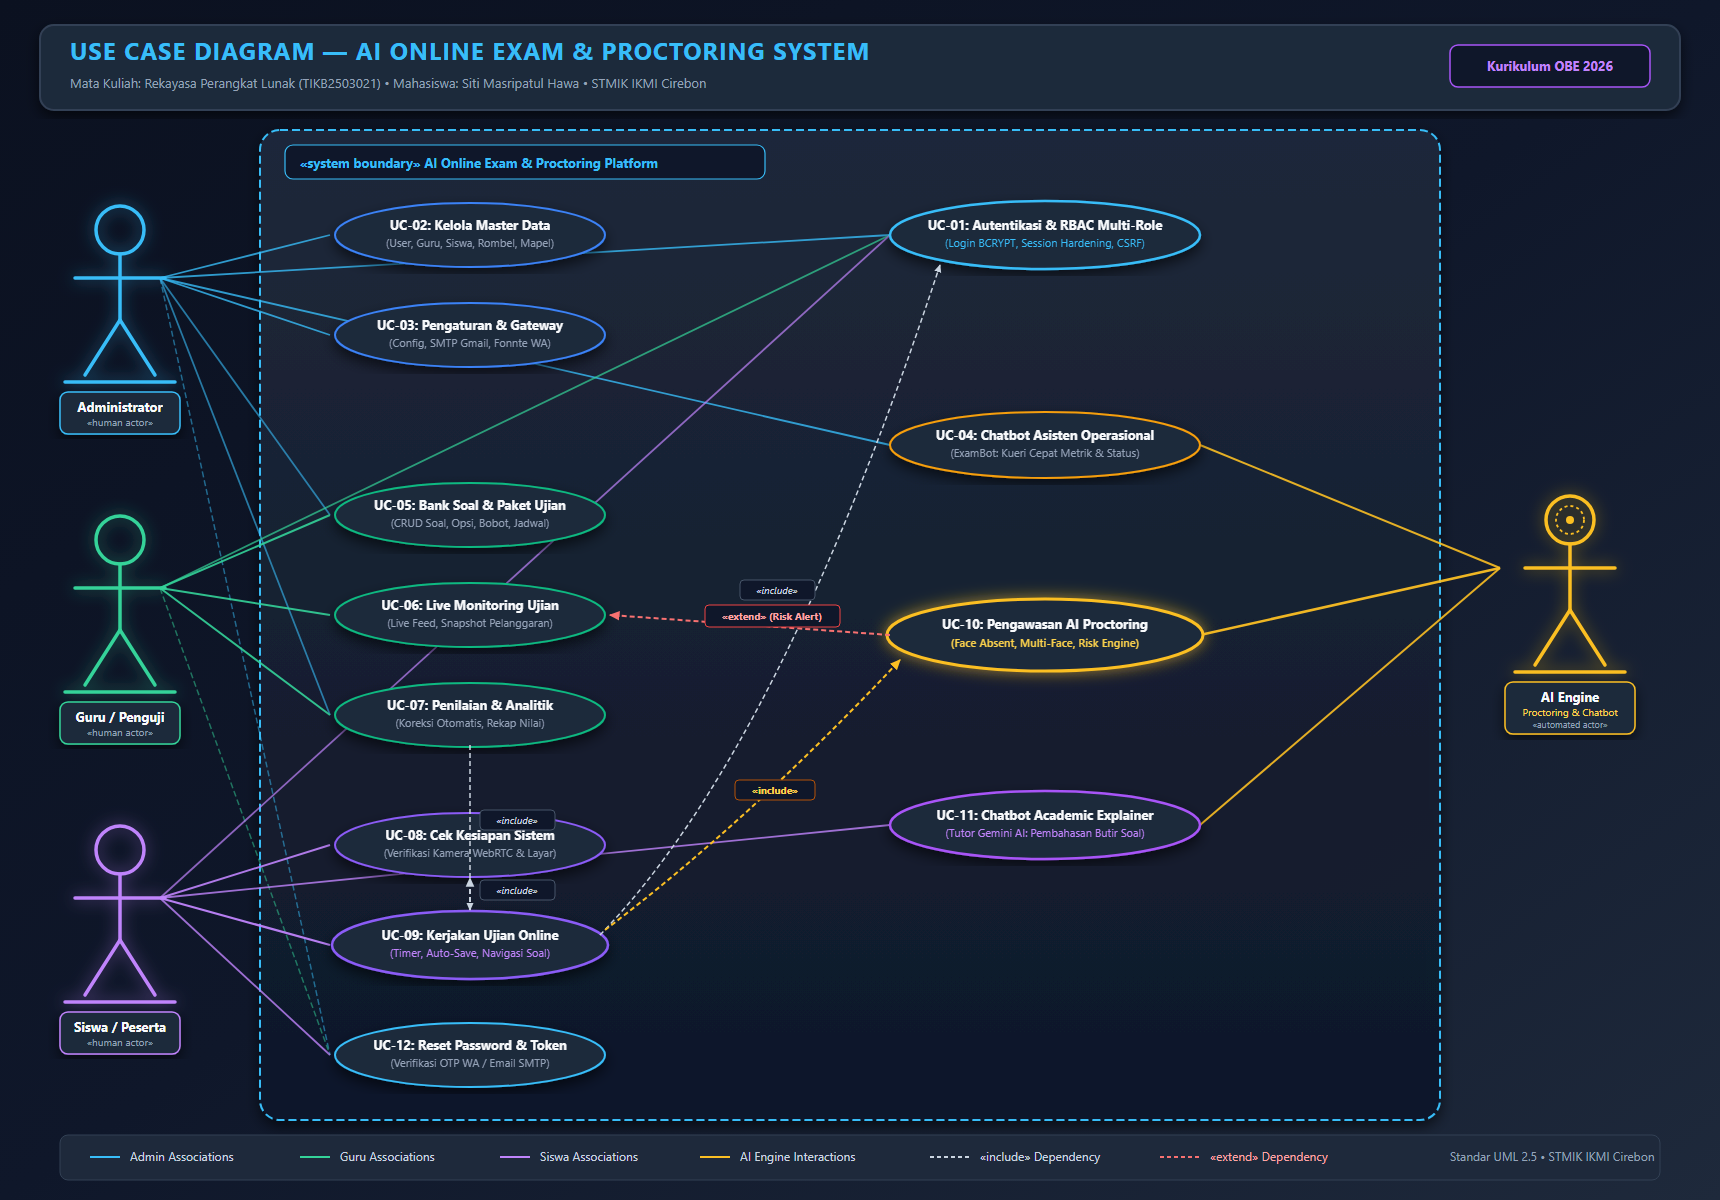
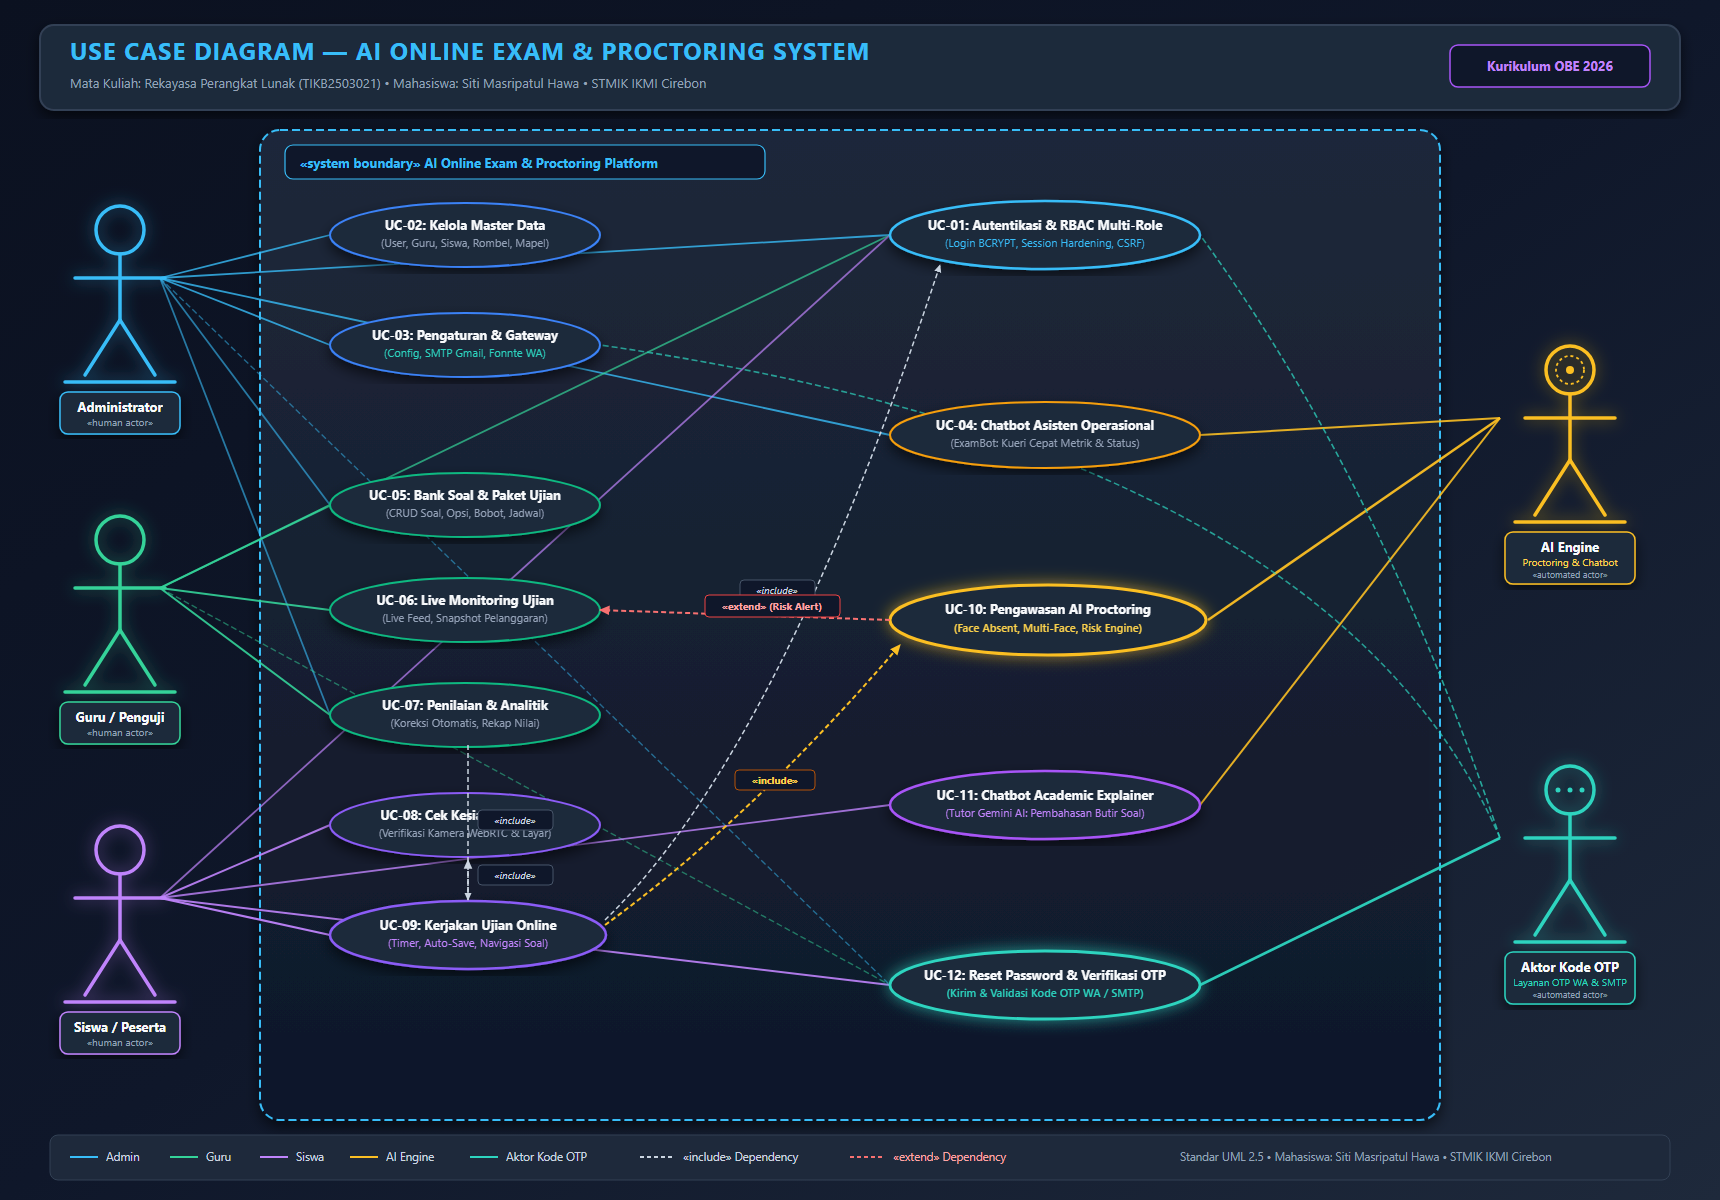
fix(uml): add Kode OTP actor on right side of use case diagram and update documentation

diff --git a/docs/TAHAP_2_UML_SDD.md b/docs/TAHAP_2_UML_SDD.md
@@ -103,6 +103,7 @@ flowchart LR
 
     subgraph AktorKanan["Aktor Sebelah Kanan"]
         AIEngine(("🤖 AI Engine\n(Proctoring & Chatbot)\n«automated actor»"))
+        KodeOTP(("🔑 Aktor Kode OTP\n(Layanan OTP WA & SMTP)\n«automated actor»"))
     end
 
     Admin --> UC01
@@ -129,6 +130,10 @@ flowchart LR
     AIEngine -.->|scoring & visual| UC10
     AIEngine -.->|tutor edukasi| UC11
 
+    KodeOTP -->|kirim & validasi OTP token| UC12
+    KodeOTP -.->|verifikasi 2FA/token| UC01
+    KodeOTP -.->|konfigurasi gateway API| UC03
+
     UC09 -.->|«include»| UC08
     UC09 -.->|«include»| UC01
     UC09 -.->|«include»| UC10
@@ -140,14 +145,15 @@ flowchart LR
 1. **Administrator (`«human actor»`)**: Pengelola level super yang bertanggung jawab atas master data institusi, manajemen akun pengguna, pengaturan lingkungan sistem, konfigurasi SMTP email, dan monitoring analitik lintas modul.
 2. **Guru / Penguji (`«human actor»`)**: Pendidik yang berwenang menyusun butir soal, membuat paket jadwal ujian, memantau aktivitas pengerjaan siswa secara *real-time* via *Live Proctoring Feed*, serta melakukan penilaian dan rekapitulasi nilai.
 3. **Siswa / Peserta (`«human actor»`)**: Peserta didik yang menjalani verifikasi kesiapan perangkat (*System Check*), memasukkan token ujian, mengerjakan soal dengan dukungan *auto-save*, diawasi oleh mesin proctoring, serta memanfaatkan *Student Academic Chatbot*.
-4. **AI Engine (`«automated system»`)**: Subsistem cerdas otomatis yang mengeksekusi deteksi kecurangan visual, kalkulasi skor risiko pelanggaran secara *real-time*, dan pemrosesan kueri percakapan asisten cerdas (*Dual Chatbot*).
+4. **AI Engine (`«automated actor»`)**: Subsistem cerdas otomatis yang mengeksekusi deteksi kecurangan visual, kalkulasi skor risiko pelanggaran secara *real-time*, dan pemrosesan kueri percakapan asisten cerdas (*Dual Chatbot*).
+5. **Aktor Kode OTP (`«automated actor»`)**: Layanan gateway eksternal (Fonnte WhatsApp API & SMTP Mail Server) di sebelah kanan sistem yang mengotomatisasi pengiriman, perutean, serta validasi token Kode OTP ke perangkat pengguna untuk keperluan pemulihan kata sandi (*password recovery*) dan autentikasi token ujian.
 
 ### 2.3 Matriks Use Case & Relasi
 | ID | Nama Use Case | Aktor Terlibat | Relasi Ketergantungan |
 |---|---|---|---|
-| **UC-01** | Autentikasi & RBAC Multi-Role | Admin, Guru, Siswa | Dasar dari seluruh modul internal |
+| **UC-01** | Autentikasi & RBAC Multi-Role | Admin, Guru, Siswa, Aktor Kode OTP | Dasar dari seluruh modul internal |
 | **UC-02** | Kelola Master Data Sekolah | Admin | Independen |
-| **UC-03** | Pengaturan Sistem & Mail SMTP | Admin | Independen |
+| **UC-03** | Pengaturan Sistem & Gateway OTP | Admin, Aktor Kode OTP | Konfigurasi endpoint & API key OTP |
 | **UC-04** | Chatbot Asisten Operasional | Admin, AI Engine | Independen |
 | **UC-05** | Bank Soal & Paket Ujian | Guru, Admin | Independen |
 | **UC-06** | Live Monitoring & Proctoring Feed | Guru | Diperluas oleh UC-10 (`«extend»`) |
@@ -156,7 +162,7 @@ flowchart LR
 | **UC-09** | Kerjakan Ujian & Auto-Save | Siswa | Termasuk UC-01, UC-08, UC-10 (`«include»`) |
 | **UC-10** | Pengawasan AI Proctoring Real-time | Siswa, AI Engine | Memperluas UC-06 (`«extend»`) |
 | **UC-11** | Chatbot Bantuan Akademik Siswa | Siswa, AI Engine | Opsional |
-| **UC-12** | Reset Kata Sandi via Email | Admin, Guru, Siswa | Independen |
+| **UC-12** | Reset Password & Verifikasi Kode OTP | Admin, Guru, Siswa, Aktor Kode OTP | Terhubung ke Aktor Kode OTP & UC-03 |
 
 ### 2.4 Skenario Use Case Utama (UC-09: Kerjakan Ujian & UC-10: AI Proctoring)
 * **Aktor Utama** : Siswa & AI Engine

diff --git a/docs/LAPORAN_AKHIR_PROYEK_LENGKAP.md b/docs/LAPORAN_AKHIR_PROYEK_LENGKAP.md
@@ -148,10 +148,11 @@ Sistem dirancang mandiri menggunakan arsitektur **3-Tier Pure PHP MVC (Model-Vie
 *Berkas Gambar*: [`docs/diagrams/01_use_case_diagram.png`](diagrams/01_use_case_diagram.png)
 
 ```
-[KIRI: Aktor Manusia]             [TENGAH: Batas Sistem Ujian]           [KANAN: Aktor AI]
-  👑 Administrator  ======> (UC-01 s/d UC-04, UC-12)
-  👨🏫 Guru / Penguji ======> (UC-01, UC-05, UC-06, UC-07, UC-12)   <====== 🤖 AI Engine
-  🎓 Siswa / Peserta =====> (UC-01, UC-08, UC-09, UC-11, UC-12)          (UC-04, UC-10, UC-11)
+[KIRI: Aktor Manusia]             [TENGAH: Batas Sistem Ujian]           [KANAN: Aktor Otomatis]
+  👑 Administrator  ======> (UC-01 s/d UC-04, UC-12)                   <====== 🤖 AI Engine
+  👨🏫 Guru / Penguji ======> (UC-01, UC-05, UC-06, UC-07, UC-12)                (UC-04, UC-10, UC-11)
+  🎓 Siswa / Peserta =====> (UC-01, UC-08, UC-09, UC-11, UC-12)       <====== 🔑 Aktor Kode OTP
+                                                                                (UC-12, UC-03, UC-01)
 ```
 
 #### Visualisasi Diagram Use Case:
@@ -160,9 +161,9 @@ Sistem dirancang mandiri menggunakan arsitektur **3-Tier Pure PHP MVC (Model-Vie
 #### Matriks 12 Use Case:
 | ID | Nama Use Case | Aktor Terlibat | Relasi Ketergantungan |
 |---|---|---|---|
-| **UC-01** | Autentikasi & RBAC Multi-Role | Admin, Guru, Siswa | Dasar dari seluruh modul internal |
+| **UC-01** | Autentikasi & RBAC Multi-Role | Admin, Guru, Siswa, Aktor Kode OTP | Dasar dari seluruh modul internal |
 | **UC-02** | Kelola Master Data Sekolah | Admin | Independen |
-| **UC-03** | Pengaturan Sistem & Gateway | Admin | Independen |
+| **UC-03** | Pengaturan Sistem & Gateway OTP | Admin, Aktor Kode OTP | Konfigurasi endpoint & API key OTP |
 | **UC-04** | Chatbot Asisten Operasional (ExamBot)| Admin, AI Engine | Independen |
 | **UC-05** | Bank Soal & Paket Ujian | Guru, Admin | Independen |
 | **UC-06** | Live Monitoring Ujian Real-Time | Guru | Diperluas oleh UC-10 (`«extend»`) |
@@ -171,7 +172,7 @@ Sistem dirancang mandiri menggunakan arsitektur **3-Tier Pure PHP MVC (Model-Vie
 | **UC-09** | Kerjakan Ujian Online & Auto-Save | Siswa | Memuat UC-01, UC-08, UC-10 (`«include»`) |
 | **UC-10** | Pengawasan AI Proctoring Real-Time | Siswa, AI Engine | Memperluas UC-06 (`«extend»`) |
 | **UC-11** | Chatbot Academic Question Explainer | Siswa, AI Engine | Independen / Pasca-Ujian |
-| **UC-12** | Reset Password via OTP WA & Email | Admin, Guru, Siswa | Independen |
+| **UC-12** | Reset Password & Verifikasi Kode OTP | Admin, Guru, Siswa, Aktor Kode OTP | Terhubung ke Aktor Kode OTP & UC-03 |
 
 #### Skenario Rinci Use Case Utama (UC-09: Kerjakan Ujian & UC-10: AI Proctoring):
 * **Aktor**: Siswa & AI Engine
